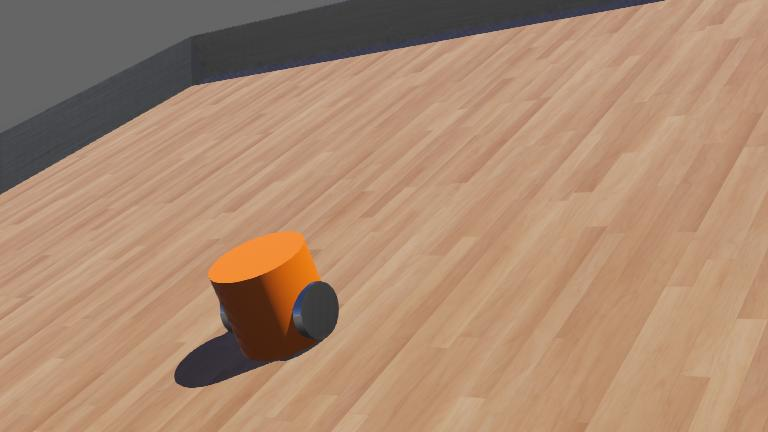
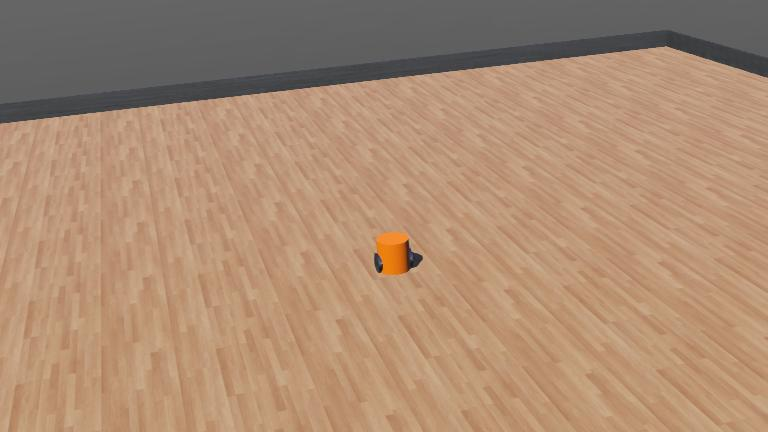
Add new Webots world and project files for robot simulation
- Created a new Webots project file (.wbproj) for the robot collector simulation.
- Added a new world file (.wbt) defining the simulation environment, including:
  - External prototypes for background and robot models.
  - A viewpoint for camera positioning.
  - A textured background and arena setup.
  - Configuration for the Pioneer 3-DX robot with a controller and sensors.
  - A solid object representing a canette with recognition colors.

diff --git a/Webots Robot Collecteur/controllers/TestControl1/TestControl1.py b/Webots Robot Collecteur/controllers/TestControl1/TestControl1.py
@@ -1,0 +1,75 @@
+"""Controleur de test Webots.
+
+Verifie 3 choses :
+  1) que Webots utilise bien le Python du venv (ultralytics + torch importables) ;
+  2) la liste des peripheriques du robot (noms exacts des moteurs, capteurs) ;
+  3) ce que la camera reconnait (noeud Recognition) et la distance lidar minimale.
+"""
+import sys
+from controller import Robot
+
+robot = Robot()
+pas = int(robot.getBasicTimeStep())
+
+# ---- 1) Python et bibliotheques -------------------------------------------
+print("Python :", sys.executable)
+try:
+    import torch
+    import ultralytics  # noqa: F401
+    print("ultralytics OK | torch", torch.__version__,
+          "| cuda", torch.cuda.is_available())
+except Exception as e:
+    print("ECHEC import ultralytics/torch :", e)
+
+# ---- 2) Peripheriques ------------------------------------------------------
+print("Peripheriques du robot :")
+for i in range(robot.getNumberOfDevices()):
+    print("  -", robot.getDeviceByIndex(i).getName())
+
+camera = robot.getDevice("camera")
+lidar = robot.getDevice("lidar")
+if camera is not None:
+    camera.enable(pas)
+    if camera.hasRecognition():
+        camera.recognitionEnable(pas)
+    else:
+        print("ATTENTION : la camera n'a pas de noeud Recognition")
+else:
+    print("ATTENTION : aucun peripherique nomme 'camera' (champ name du noeud)")
+if lidar is not None:
+    lidar.enable(pas)
+else:
+    print("ATTENTION : aucun peripherique nomme 'lidar' (champ name du noeud)")
+
+
+def champ(obj, nom):
+    """Lit un champ d'un objet reconnu (le nom exact depend de la version)."""
+    for n in ("get_" + nom, "get" + nom.title().replace("_", "")):
+        f = getattr(obj, n, None)
+        if callable(f):
+            return f()
+    return getattr(obj, nom, "?")
+
+
+# ---- 3) Boucle de simulation ----------------------------------------------
+t = 0
+afficher_attributs = True
+while robot.step(pas) != -1:
+    t += 1
+    if t % 20:          # on n'affiche qu'un pas sur 20 pour ne pas saturer
+        continue
+    if camera is not None and camera.hasRecognition():
+        objs = camera.getRecognitionObjects()
+        print(f"[{t}] objets reconnus : {len(objs)}")
+        for o in objs:
+            print("   ", champ(o, "model"),
+                  "| centre image", champ(o, "position_on_image"),
+                  "| taille image", champ(o, "size_on_image"),
+                  "| position relative", champ(o, "position"))
+        if objs and afficher_attributs:
+            print("   attributs disponibles :",
+                  [a for a in dir(objs[0]) if not a.startswith("_")])
+            afficher_attributs = False
+    if lidar is not None:
+        dist = [x for x in lidar.getRangeImage() if x != float("inf")]
+        print("   lidar : distance min =", round(min(dist), 2) if dist else "rien")

diff --git a/Webots Env/controllers/my_1st_controller/my_1st_controller.py b/Webots Env/controllers/my_1st_controller/my_1st_controller.py
@@ -1,0 +1,23 @@
+"""my_1st_controller controller."""
+
+from controller import Robot
+
+if __name__ == "__main__": 
+    MyBot = Robot()      # create the Robot instance.
+    timestep = 64   # get the time step of the current world.
+    max_speed = 10
+    # Motor Instances
+    leftMot = MyBot.getDevice('Motor 2')
+    rightMot = MyBot.getDevice('Motor 1')
+    leftMot.setPosition(float('inf'))
+    leftMot.setVelocity(0.0)
+    rightMot.setPosition(float('inf'))
+    rightMot.setVelocity(0.0)
+    
+    while MyBot.step(timestep) != -1:
+        left_speed = 0.9 * max_speed
+        right_speed = 0.9 * max_speed
+        
+        leftMot.setVelocity(left_speed)
+        rightMot.setVelocity(right_speed)
+        

diff --git a/fis_a.py b/fis_a.py
@@ -1,6 +1,6 @@
 """FIS-A : controleur flou de decision de collecte (Mamdani, scikit-fuzzy).
 
-Entrees  : conf [0,1], dist [0,5] m, batt [0,100] %, bac [0,100] %
+Entrees  : conf [0,1], dist [0,5] m, batnt [0,100] %, bac [0,100] %
 Sortie   : score [0,100]  (score > SEUIL_COLLECTE => on collecte)
 
 Methode (cours TASI, partie 1, chapitre 2) :
